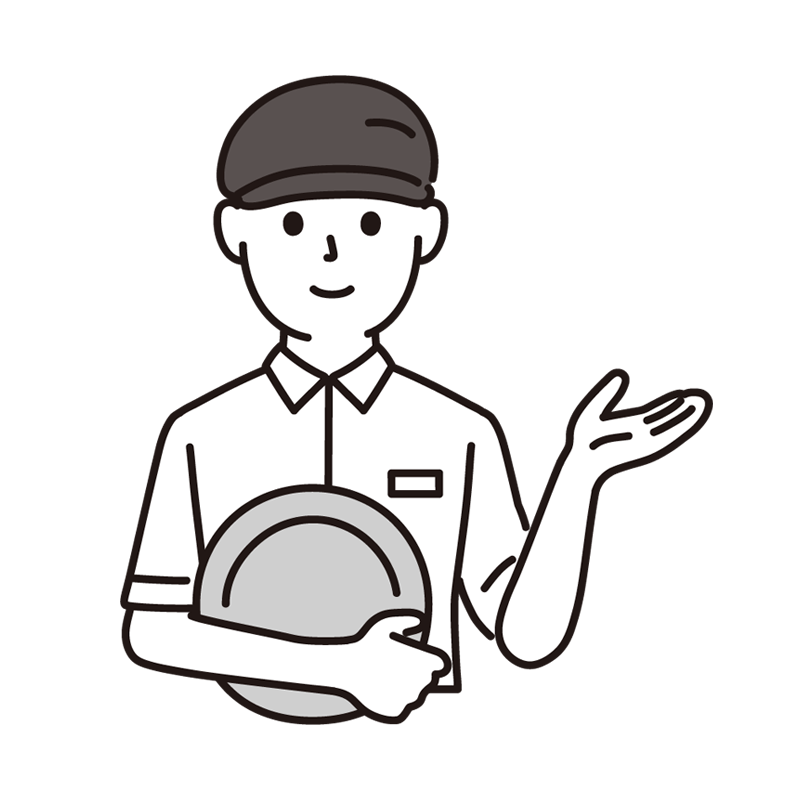
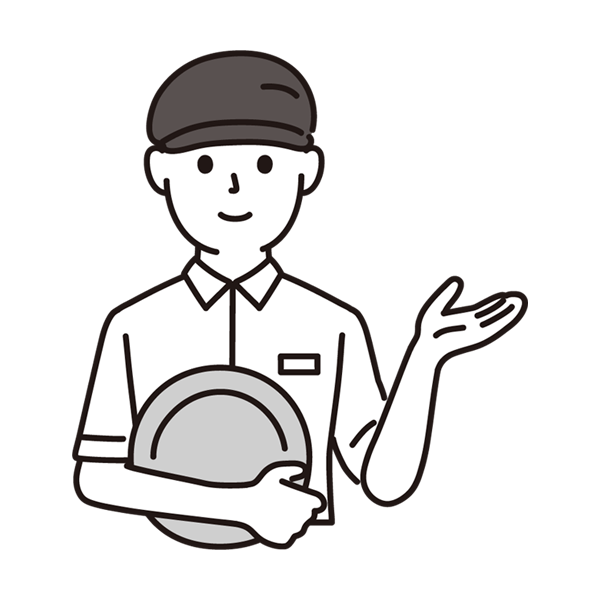
画像サイズ修正

Changed region(s): [[0.12, 0.06, 0.9, 0.93]]

diff --git a/src/components/Home/ServiceItem.js b/src/components/Home/ServiceItem.js
@@ -12,7 +12,7 @@ function ServiceItem({src, title, description, type}) {
                     node {
                         relativePath
                         childImageSharp {
-                            fluid(maxWidth: 800) {
+                            fluid(maxWidth: 600) {
                                 ...GatsbyImageSharpFluid
                             }
                         }

diff --git a/src/components/Home/TopImage.js b/src/components/Home/TopImage.js
@@ -8,7 +8,7 @@ function TopImage() {
 
   const data = useStaticQuery(graphql`
     query {
-      TopImage01:file(relativePath:{eq:"topimg08.png"}) {
+      TopImage01:file(relativePath:{eq:"topimg06.png"}) {
         childImageSharp {
           fluid(maxWidth:2000) {
             ...GatsbyImageSharpFluid
